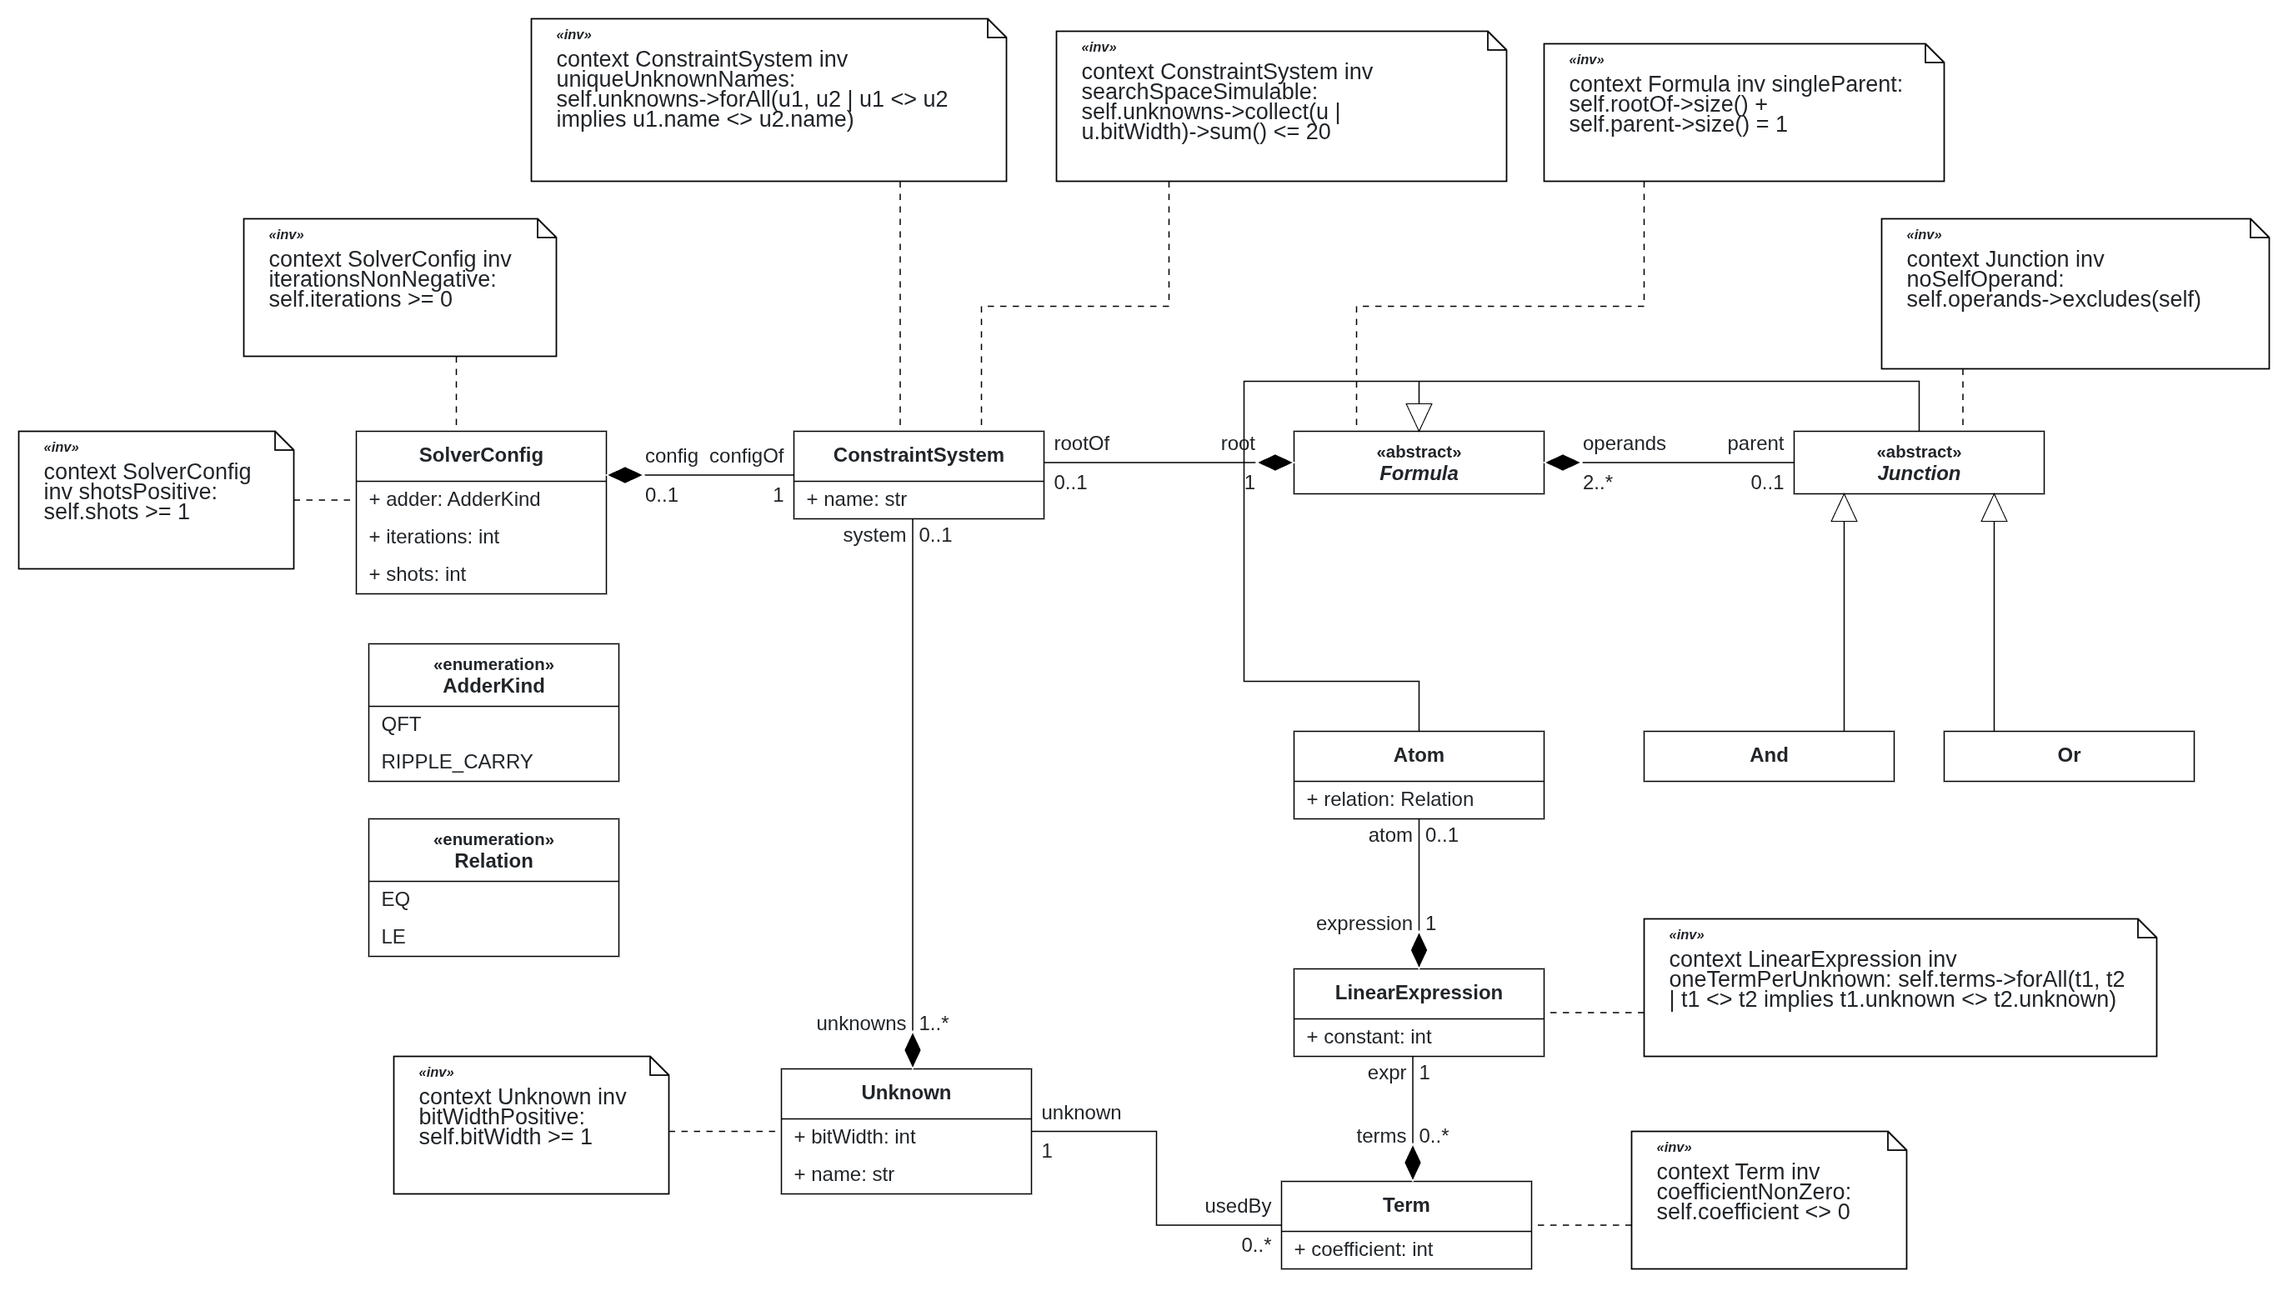
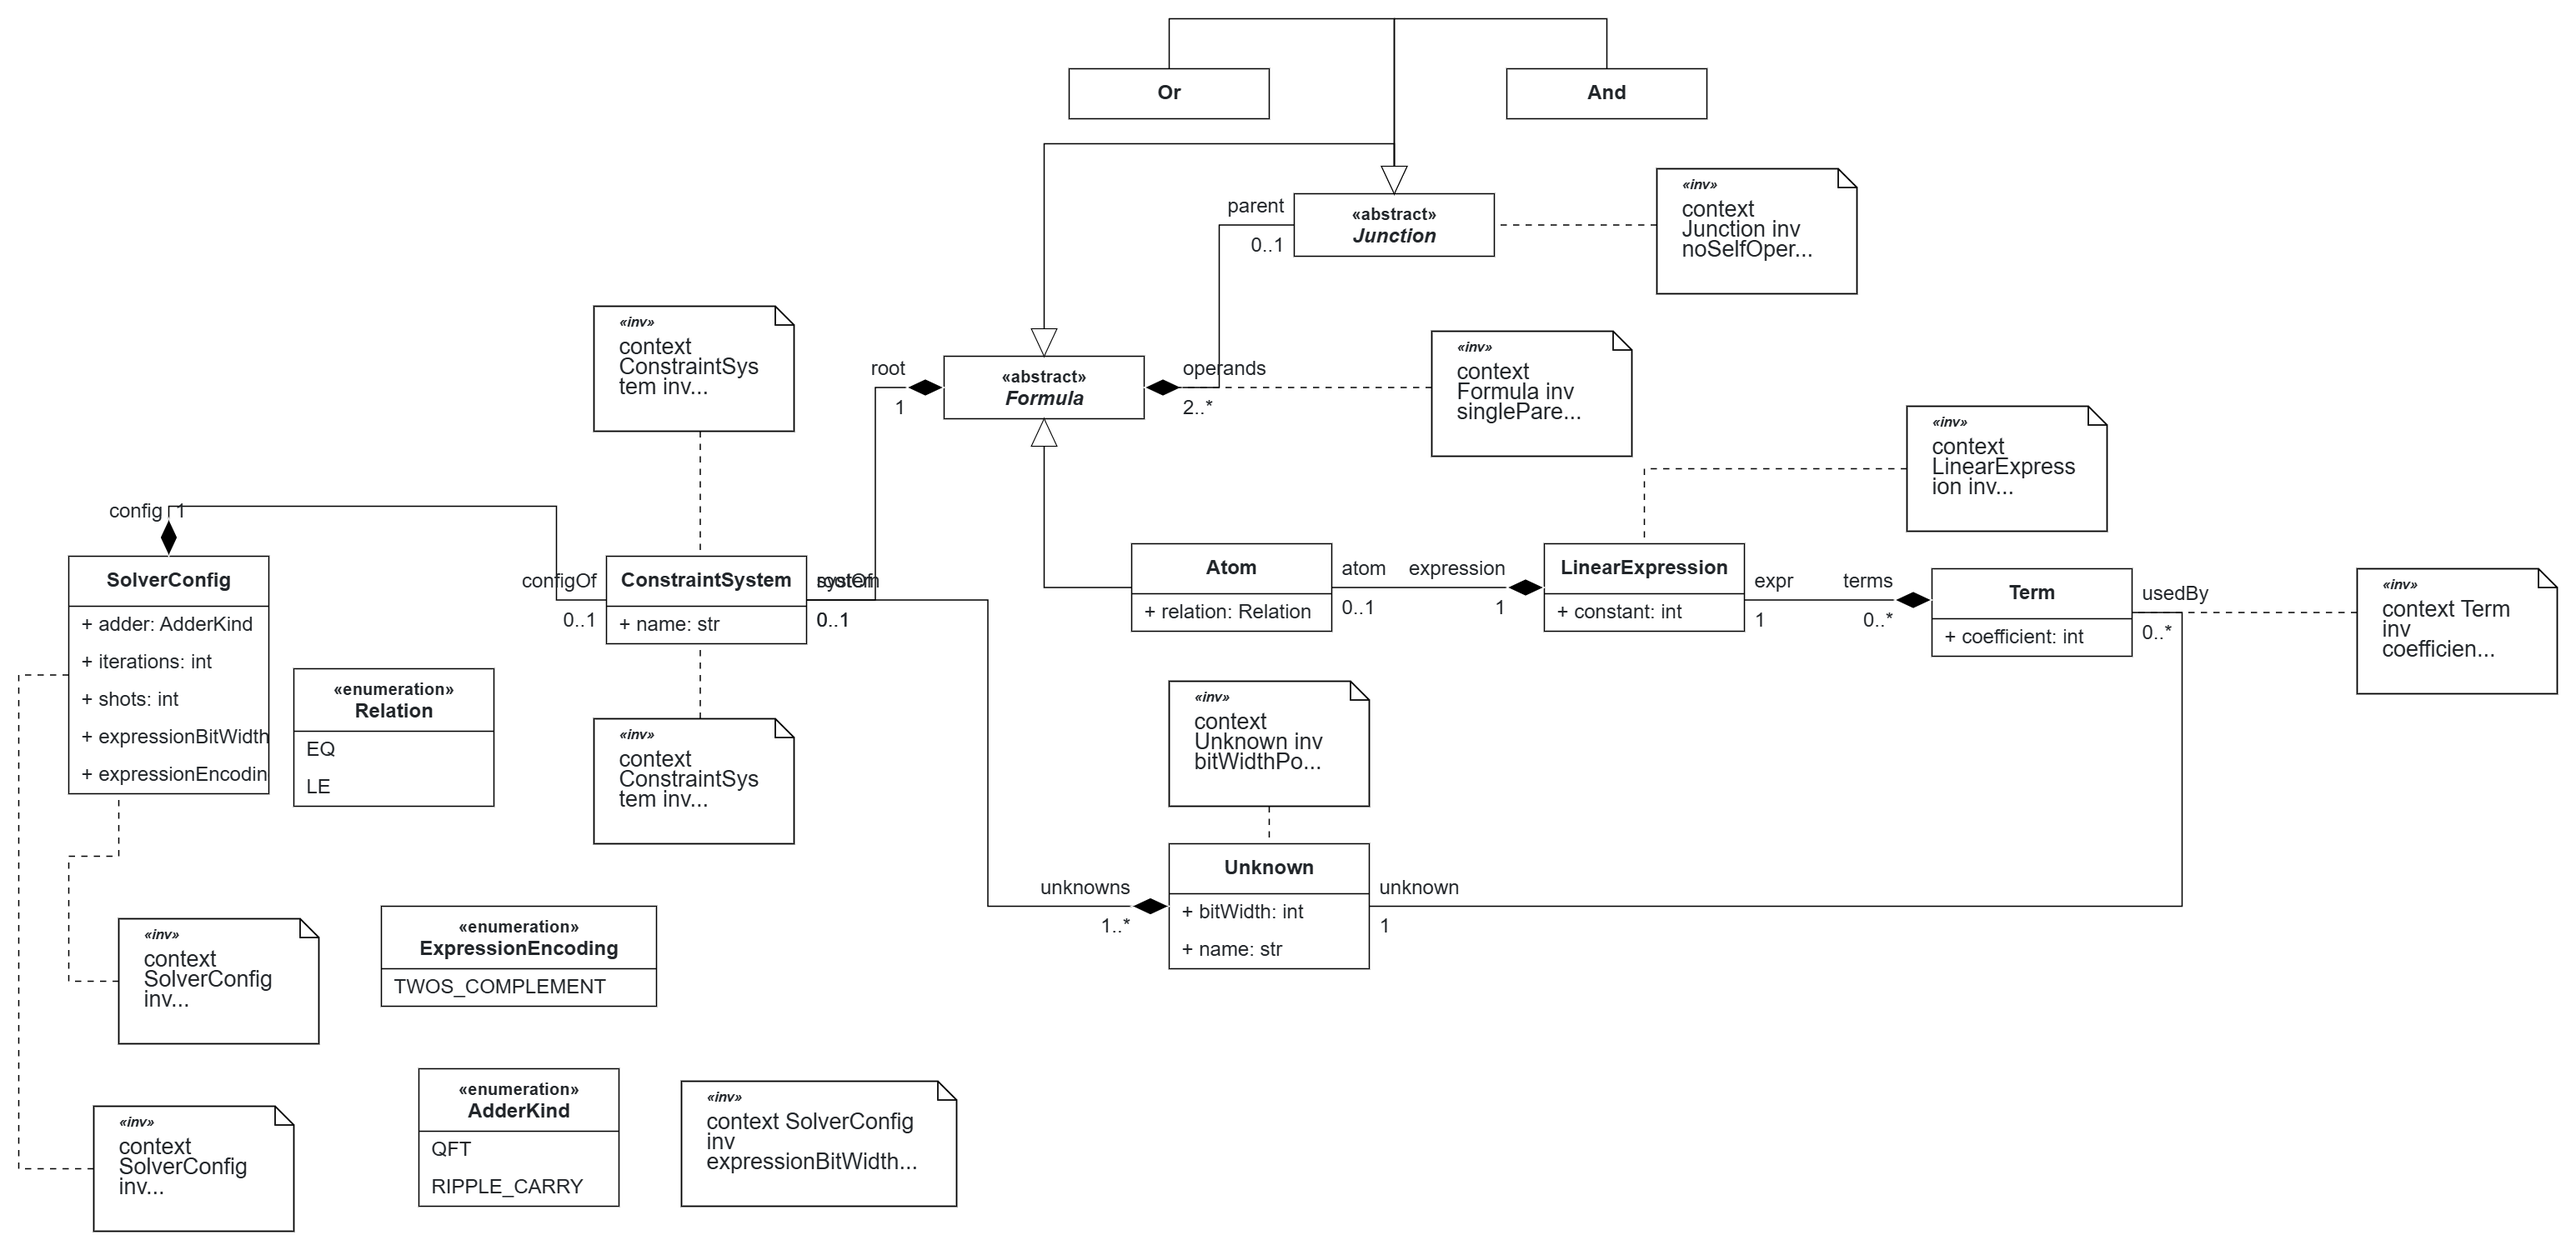
docs: update transformation descriptions and add references in report + model pngs update

diff --git a/docs/report_part2.md b/docs/report_part2.md
@@ -40,7 +40,35 @@ We also use M to set the number of Grover rounds, `floor(π/4 · √(2^n / M))` 
 
 ## Transformations
 
-[T1, T2 — later.]
+Both transformations are plain Python functions over BESSER models, one function per rule, and each rule cites its reference in the code comment next to it (`transformations/t1.py`, `transformations/t2.py`). The full concept mapping is in `docs/concept_list.md`.
+
+**T1: problem model → solution model** (`transformations/t1.py`). The input is a `KnapsackProblem` with its items and the solver configuration model; the output is a `ConstraintSystem` of linear integer constraints, plus a trace `{created object: source object}` that a backward mapping could use.
+
+| Rule | Problem DSL | Solution DSL | Reference |
+|---|---|---|---|
+| R1 | `KnapsackProblem` | `ConstraintSystem` | Annex A, class C |
+| R2 | `Item` | `Unknown` y_i of 1 bit (1 = packed) | [GJ79] MP9 |
+| R3 | capacity C | `Atom` Σ w_i·y_i − C ≤ 0 | [KPP04]; Annex A |
+| R4 | minimum value V | `Atom` V − Σ v_i·y_i ≤ 0 | Annex A (variants) |
+| R5 | feasibility question | root `And` of the two atoms | [GJ79] MP9 |
+| R6 | solver configuration | `SolverConfig`, copied from the input and never defaulted | assignment §2 |
+
+**T2: solution model → quantum model** (`transformations/t2.py`). The output is a BESSER `QuantumCircuit` that implements Grover search with a compute–mark–uncompute oracle.
+
+| Rule | Solution DSL | Quantum model | Reference |
+|---|---|---|---|
+| R1 | `ConstraintSystem` | `QuantumCircuit` with one register and n classical bits | Annex A |
+| R2 | `Unknown` | search qubits, put in superposition with H | [Gro96] |
+| R3 | `LinearExpression` a0 + Σ a_i·y_i | expression register of B bits, two's complement, a0 loaded with X | [NC10]; Annex A |
+| R4 | `Term` a_i·y_i | addition of a_i controlled by y_i, with a ripple-carry adder | [CDKM04]; [VBE96]; [Dra00] |
+| R5 | `Atom` (≤ or =) | comparator that sets one flag qubit per atom | [NC10]; Annex A |
+| R6 | root `And` | multi-controlled X from all flags onto the phase qubit in \|−⟩ | [BBC+95]; [CEMM98] |
+| R7 | oracle | compute, mark, then run the compute blocks backwards | [Ben73] |
+| R8 | search register | diffuser H X (multi-controlled Z) X H | [Gro96] |
+| R9 | `SolverConfig.iterations` | number of rounds (zero allowed); shots go to T3 | [Gro96]; [BBHT98] |
+| R10 | `Unknown` names | measurement of the search qubits, and decoding of the counts back to item names | traceability choice |
+
+Three design decisions are worth stating. First, the solver choices (rounds, shots, adder, register width, encoding) are read from the configuration model, so neither transformation hard-codes them. Second, the oracle uses only primitive BESSER gates (X, H, Z with controls): BESSER's Qiskit generator turns `ComparisonGate` into an empty placeholder and `ArithmeticGate` into a Draper adder without constants, which would give a circuit that runs but is wrong, so we build the adder and the comparator ourselves. Third, the decoding is derived from the T2 qubit layout and not written by hand for each instance. T3 is not ours: it is BESSER's `QiskitGenerator`, and its output is never edited.
 
 ## Validation results
 
@@ -78,6 +106,13 @@ T2 also checks the oracle classically on all 2^n inputs, making sure it marks ex
 
 - [CDKM04] S. A. Cuccaro, T. G. Draper, S. A. Kutin, D. P. Moulton. "A new quantum ripple-carry addition circuit", arXiv:quant-ph/0410184, 2004.
 - [Dra00] T. G. Draper. "Addition on a quantum computer", arXiv:quant-ph/0008033, 2000.
+- [GJ79] M. R. Garey, D. S. Johnson. Computers and Intractability: A Guide to the Theory of NP-Completeness. W. H. Freeman, 1979 (problem MP9, Knapsack).
+- [Gro96] L. Grover. "A fast quantum mechanical algorithm for database search", STOC, 1996.
+- [VBE96] V. Vedral, A. Barenco, A. Ekert. "Quantum networks for elementary arithmetic operations", Physical Review A, 1996.
+- [BBC+95] A. Barenco et al. "Elementary gates for quantum computation", Physical Review A, 1995.
+- [CEMM98] R. Cleve, A. Ekert, C. Macchiavello, M. Mosca. "Quantum algorithms revisited", Proceedings of the Royal Society A, 1998.
+- [Ben73] C. H. Bennett. "Logical reversibility of computation", IBM Journal of Research and Development, 1973.
+- [NC10] M. A. Nielsen, I. L. Chuang. Quantum Computation and Quantum Information, 10th anniversary ed. Cambridge University Press, 2010.
 - [KPP04] H. Kellerer, U. Pferschy, D. Pisinger. Knapsack Problems. Springer, 2004.
 - [BBHT98] M. Boyer, G. Brassard, P. Høyer, A. Tapp. “Tight bounds on quantum searching”, Fortschritte der Physik, 1998.
 - [Pis] D. Pisinger, low-dimensional 0/1 knapsack instances, as collected in https://github.com/dnlfm/knapsack-01-instances/tree/main/pisinger_instances_01_KP/low-dimensional
